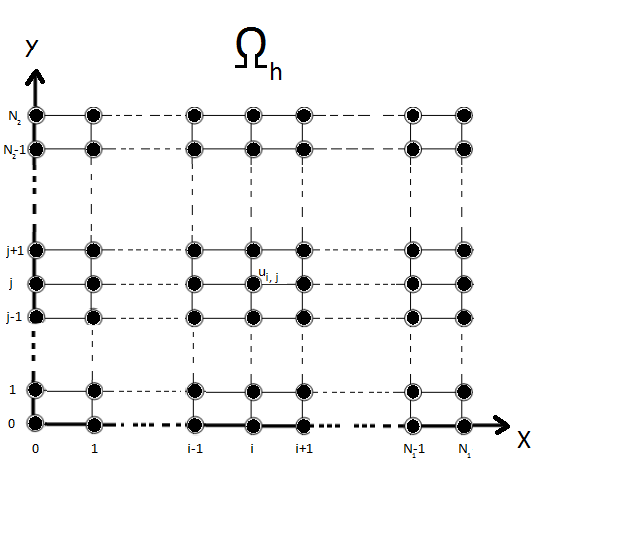
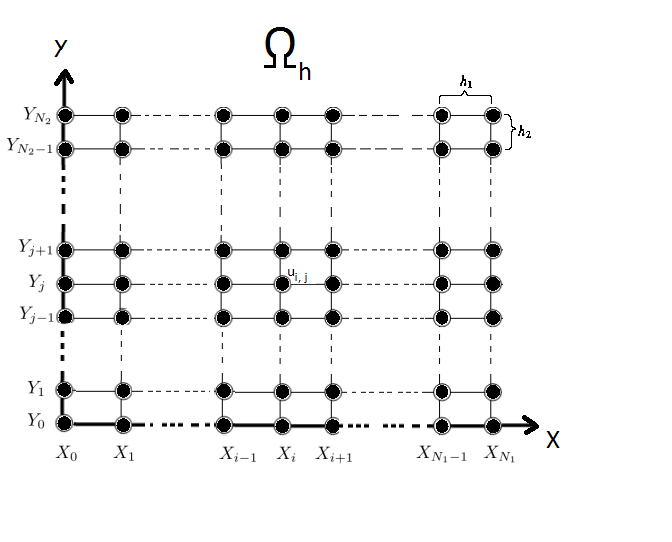
presentation for gate // fixes

diff --git a/Docu/GATE/amitans_2021.tex b/Docu/GATE/amitans_2021.tex
@@ -60,8 +60,8 @@
 We study the problem
 
 \be\label{problem}
-\beta(E-\Delta) \frac{\partial^2 u}{\partial t^2}=
- \beta \Delta u -\Delta^2 u -\alpha \beta \Delta (u^2)
+\beta(I-\Delta) \frac{\partial^2 u}{\partial t^2}=
+  \Delta u -\Delta^2 u +\Delta(-\alpha \beta u^2 + (\beta - 1 )u)
 \ee
 where $\alpha>0$, $\beta>0$  are dispersion parameters, and $\Delta$ is the Laplace operator.
 \end{frame}
@@ -79,7 +79,7 @@ D(u)=\int_{R^2} u(x,y)dx dy
 
 and energy:
 \begin{align}\label{ex-en}
-E(u):=&\int_{R^2} u_t \left((A^{-1}+E)u_t\right) dxdy+
+E(u):=&\int_{R^2} u_t \left((A^{-1}+I)u_t\right) dxdy+
 \beta \int_{R^2} u^2 dxdy \nonumber\\
 +& \int_{R^2}u \left(A u\right) dxdy
 -\frac{2 \alpha \beta}{3} \int_{R^2} u^3 dxdy =const
@@ -119,7 +119,7 @@ The approximation of the differential operators is defined as:
 
 
 \begin{equation}
-\Delta_h = \frac{ u^{(k)}_{i+1, j} - 2u^{(k)}_{i,j} + u^{(k)}_{i-1,j} }{h_1^2} + \frac{ u^{(k)}_{i, j+1} - 2u^{(k)}_{i,j} + u^{(k)}_{i,j-1} }{h_2^2}
+\Delta_h u(x_i, y_j, t_k )  = \frac{ u^{(k)}_{i+1, j} - 2u^{(k)}_{i,j} + u^{(k)}_{i-1,j} }{h_1^2} + \frac{ u^{(k)}_{i, j+1} - 2u^{(k)}_{i,j} + u^{(k)}_{i,j-1} }{h_2^2}
 \end{equation}
 
 \end{frame}
@@ -133,7 +133,7 @@ The grid function is defined as:
 %
 where the non-linear term $g$ is defined as:
 \begin{align}
-g(u^{(k)}_{i,j})=&\frac{\alpha \beta} { 3 } \left( (u^{(k+1)}_{i,j})^2 + (u^{(k-1)}_{i,j})(u^{(k+1)}_{i,j}) + (u^{(k-1)}_{i,j})^2 \right) + \nonumber\\
+g(u^{(k)}_{i,j})=& -\frac{\alpha \beta} { 3 } \left( (u^{(k+1)}_{i,j})^2 + (u^{(k-1)}_{i,j})(u^{(k+1)}_{i,j}) + (u^{(k-1)}_{i,j})^2 \right) + \nonumber\\
 +&\frac{ (\beta - 1 )}{ 2 }\left( u^{(k+1)}_{i,j} + u^{(k-1)}_{i,j} \right).
 \end{align}
 

diff --git a/Docu/energy/energy-nat-new.tex b/Docu/energy/energy-nat-new.tex
@@ -414,4 +414,23 @@ When comparing the Taylor and Energy Saving methods one could see that they exhi
 \end{table}
 
 Notice that the final time $T=10$  is the same for all tables.
+
+$X_0 \quad X_1 \quad X_{i-1} \quad X_i \quad X_{i+1} \quad X_{N_1-1} \quad X_{N_1}$
+
+$Y_{N_2}$
+\\
+$Y_{N_2 - 1}$
+\\
+$Y_{j+1}$
+\\
+$Y_j$
+\\
+$Y_{j-1}$
+\\
+$Y_1$
+\\
+$Y_0$
+\\
+$h_1$
+$h_2$
 \end{document}
